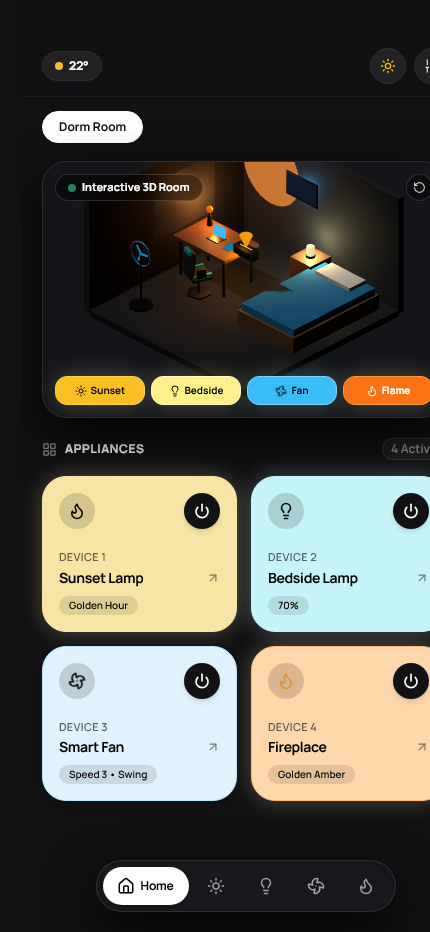
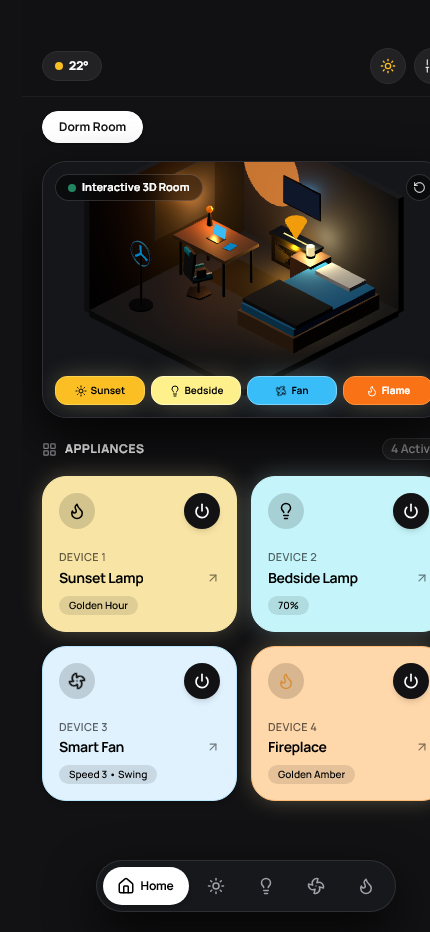
feat: grand architectural fireplace under TV and rock-solid jitter-free blanket in 3D room

diff --git a/src/components/ThreeRoomScene.tsx b/src/components/ThreeRoomScene.tsx
@@ -310,13 +310,17 @@ export const ThreeRoomScene: React.FC<ThreeRoomSceneProps> = ({
     mattress.position.set(0.9, 0.32, -0.6);
     masterGroup.add(mattress);
 
-    // Matte Black Quilt / Blanket draped on the foot of the bed (Requested by user)
+    // Matte Black Quilt / Blanket draped on foot of the bed (Rock solid - elevated to eliminate Z-fighting!)
     const blackBlanketMat = new THREE.MeshStandardMaterial({
       color: 0x121316,
       roughness: 0.95,
+      polygonOffset: true,
+      polygonOffsetFactor: -2,
+      polygonOffsetUnits: -2,
     });
-    const blackBlanket = new THREE.Mesh(new THREE.BoxGeometry(1.24, 0.06, 0.82), blackBlanketMat);
-    blackBlanket.position.set(0.9, 0.38, -0.12);
+    const blackBlanket = new THREE.Mesh(new THREE.BoxGeometry(1.25, 0.07, 0.85), blackBlanketMat);
+    // Mattress top is y = 0.41, placing blanket center at y = 0.445 gives clean 0.07 thickness above mattress
+    blackBlanket.position.set(0.9, 0.445, -0.12);
     masterGroup.add(blackBlanket);
 
     const pillow = new THREE.Mesh(new THREE.BoxGeometry(0.8, 0.08, 0.38), pillowMat);
@@ -420,94 +424,120 @@ export const ThreeRoomScene: React.FC<ThreeRoomSceneProps> = ({
     }
 
     // -------------------------------------------------------------
-    // APPLIANCE 4: Flame Humidifier (Fireplace box on table)
+    // APPLIANCE 4: Grand Architectural Fireplace Hearth (Big size sitting on floor under the TV!)
     // -------------------------------------------------------------
     const fireplaceGroup = new THREE.Group();
-    fireplaceGroup.position.set(-0.35, 0.81, -0.4);
+    // Positioned directly against the back wall (z = -1.58), sitting on the floor under the TV (x = -0.35)
+    fireplaceGroup.position.set(-0.35, 0.26, -1.58);
 
-    // 1. Obsidian Outer Chassis (Matches photo)
-    const fireplaceChassis = new THREE.Mesh(
-      new THREE.BoxGeometry(0.44, 0.17, 0.16),
-      new THREE.MeshStandardMaterial({ color: 0x111215, roughness: 0.35, metalness: 0.2 })
+    // 1. Heavy Obsidian / Granite Hearth Mantel Base (Grand Presence matching user photo)
+    const fpMantelBase = new THREE.Mesh(
+      new THREE.BoxGeometry(0.92, 0.52, 0.26),
+      new THREE.MeshStandardMaterial({ color: 0x111215, roughness: 0.4, metalness: 0.15 })
     );
-    fireplaceGroup.add(fireplaceChassis);
+    fireplaceGroup.add(fpMantelBase);
 
-    // 2. Front Panoramic Glass Window
+    // Top Mantel Shelf / Ledge
+    const fpMantelLedge = new THREE.Mesh(
+      new THREE.BoxGeometry(0.98, 0.04, 0.3),
+      new THREE.MeshStandardMaterial({ color: 0x181a1f, roughness: 0.3, metalness: 0.2 })
+    );
+    fpMantelLedge.position.set(0, 0.27, 0.01);
+    fireplaceGroup.add(fpMantelLedge);
+
+    // 2. Deep Panoramic Firebox Chamber (Recessed dark cavity)
+    const fpCavity = new THREE.Mesh(
+      new THREE.BoxGeometry(0.74, 0.34, 0.18),
+      new THREE.MeshStandardMaterial({ color: 0x050608, roughness: 0.9 })
+    );
+    fpCavity.position.set(0, -0.02, 0.05);
+    fireplaceGroup.add(fpCavity);
+
+    // 3. Front Panoramic Tinted Glass Pane
     const fpGlassMat = new THREE.MeshStandardMaterial({
-      color: 0x050608,
-      roughness: 0.1,
-      metalness: 0.9,
+      color: 0x08090c,
+      roughness: 0.05,
+      metalness: 0.95,
       transparent: true,
-      opacity: 0.85,
+      opacity: 0.82,
     });
-    const fpGlass = new THREE.Mesh(new THREE.BoxGeometry(0.38, 0.11, 0.01), fpGlassMat);
-    fpGlass.position.set(0, -0.01, 0.082);
+    const fpGlass = new THREE.Mesh(new THREE.BoxGeometry(0.72, 0.32, 0.01), fpGlassMat);
+    fpGlass.position.set(0, -0.02, 0.135);
     fireplaceGroup.add(fpGlass);
 
-    // 3. Glowing Ember Bed inside the chamber
+    // 4. Broad Glowing Molten Coal & Ember Bed across the full hearth
     const emberMat = new THREE.MeshBasicMaterial({
-      color: isFireplaceOn ? 0xef4444 : 0x1a1a1e,
+      color: isFireplaceOn ? 0xef4444 : 0x16171a,
     });
-    const emberBed = new THREE.Mesh(new THREE.BoxGeometry(0.34, 0.015, 0.08), emberMat);
-    emberBed.position.set(0, -0.045, 0.04);
+    const emberBed = new THREE.Mesh(new THREE.BoxGeometry(0.68, 0.02, 0.14), emberMat);
+    emberBed.position.set(0, -0.16, 0.06);
     fireplaceGroup.add(emberBed);
 
-    // 4. Miniature Charred Wood Logs inside the chamber
-    const logMat = new THREE.MeshStandardMaterial({ color: 0x1e2025, roughness: 0.9 });
-    const fpLog1 = new THREE.Mesh(new THREE.CylinderGeometry(0.012, 0.012, 0.22, 6), logMat);
+    // 5. Stacked 3D Charred Oak Firewood Logs inside the fireplace
+    const logMat = new THREE.MeshStandardMaterial({ color: 0x22242b, roughness: 0.9 });
+
+    // Center horizontal charred log
+    const fpLog1 = new THREE.Mesh(new THREE.CylinderGeometry(0.024, 0.024, 0.44, 8), logMat);
     fpLog1.rotation.z = Math.PI / 2;
-    fpLog1.position.set(0, -0.03, 0.04);
+    fpLog1.position.set(0, -0.13, 0.06);
     fireplaceGroup.add(fpLog1);
 
-    const fpLog2 = new THREE.Mesh(new THREE.CylinderGeometry(0.01, 0.01, 0.14, 6), logMat);
-    fpLog2.rotation.z = Math.PI / 3;
-    fpLog2.position.set(0.04, -0.02, 0.05);
+    // Left crossed branch
+    const fpLog2 = new THREE.Mesh(new THREE.CylinderGeometry(0.018, 0.018, 0.28, 8), logMat);
+    fpLog2.rotation.z = Math.PI / 3.2;
+    fpLog2.position.set(-0.12, -0.1, 0.07);
     fireplaceGroup.add(fpLog2);
 
-    // 5. Top Emitter Slot (Glowing horizontal slit)
+    // Right crossed branch
+    const fpLog3 = new THREE.Mesh(new THREE.CylinderGeometry(0.02, 0.02, 0.28, 8), logMat);
+    fpLog3.rotation.z = -Math.PI / 3.5;
+    fpLog3.position.set(0.14, -0.09, 0.07);
+    fireplaceGroup.add(fpLog3);
+
+    // 6. Top Exhaust Slot on the Mantel Ledge (Glowing slit)
     const slotMat = new THREE.MeshBasicMaterial({
-      color: isFireplaceOn ? 0xfef08a : 0x08090a,
+      color: isFireplaceOn ? 0xfef08a : 0x090a0d,
     });
-    const fpSlot = new THREE.Mesh(new THREE.BoxGeometry(0.28, 0.005, 0.02), slotMat);
-    fpSlot.position.set(0, 0.086, 0);
+    const fpSlot = new THREE.Mesh(new THREE.BoxGeometry(0.56, 0.008, 0.03), slotMat);
+    fpSlot.position.set(0, 0.295, 0.02);
     fireplaceGroup.add(fpSlot);
 
-    // 6. Rising animated flame mist tongue
+    // 7. Rising Animated Volumetric Leaping Flame Mist
     const flameMat = new THREE.MeshBasicMaterial({
       color: new THREE.Color(fireplaceColor),
       transparent: true,
-      opacity: isFireplaceOn ? 0.85 : 0.0,
+      opacity: isFireplaceOn ? 0.88 : 0.0,
       side: THREE.DoubleSide,
     });
-    const flameMesh = new THREE.Mesh(new THREE.ConeGeometry(0.11, 0.24, 12), flameMat);
-    flameMesh.position.set(0, 0.19, 0);
+    const flameMesh = new THREE.Mesh(new THREE.ConeGeometry(0.18, 0.36, 16), flameMat);
+    flameMesh.position.set(0, 0.46, 0.02);
     flameMesh.rotation.x = Math.PI;
     fireplaceGroup.add(flameMesh);
     fireplaceFlameRef.current = flameMesh;
 
-    // Chamber ambient light cast
-    const fpPointLight = new THREE.PointLight(new THREE.Color(fireplaceColor), isFireplaceOn ? 1.8 : 0, 1.5);
-    fpPointLight.position.set(0, 0.1, 0.1);
+    // Rich ambient firelight cast onto the floor and room
+    const fpPointLight = new THREE.PointLight(new THREE.Color(fireplaceColor), isFireplaceOn ? 3.0 : 0, 3.2);
+    fpPointLight.position.set(0, 0.15, 0.25);
     fireplaceGroup.add(fpPointLight);
 
     masterGroup.add(fireplaceGroup);
 
     // -------------------------------------------------------------
-    // APPLIANCE 5: Wall-Mounted Smart TV above the Fireplace (Requested by user)
+    // APPLIANCE 5: Wall-Mounted Smart TV Directly Above the Fireplace (1:1 with photo!)
     // -------------------------------------------------------------
     const tvGroup = new THREE.Group();
-    // Mounted directly on back wall (z = -1.74) centered above fireplace (x = -0.35, y = 1.45)
-    tvGroup.position.set(-0.35, 1.45, -1.74);
+    // Mounted directly on the back wall (z = -1.74) centered right above the fireplace (x = -0.35, y = 1.28)
+    tvGroup.position.set(-0.35, 1.28, -1.74);
 
     // Wall Bracket
-    const tvBracket = new THREE.Mesh(new THREE.BoxGeometry(0.18, 0.14, 0.03), metalMat);
+    const tvBracket = new THREE.Mesh(new THREE.BoxGeometry(0.24, 0.16, 0.03), metalMat);
     tvBracket.position.z = 0.015;
     tvGroup.add(tvBracket);
 
-    // 50" Slim Obsidian Frame
+    // 55" Large OLED Obsidian Frame
     const tvFrame = new THREE.Mesh(
-      new THREE.BoxGeometry(0.72, 0.44, 0.02),
-      new THREE.MeshStandardMaterial({ color: 0x0a0b0d, roughness: 0.3, metalness: 0.8 })
+      new THREE.BoxGeometry(0.86, 0.52, 0.02),
+      new THREE.MeshStandardMaterial({ color: 0x0a0b0d, roughness: 0.25, metalness: 0.85 })
     );
     tvFrame.position.z = 0.035;
     tvGroup.add(tvFrame);
@@ -516,12 +546,12 @@ export const ThreeRoomScene: React.FC<ThreeRoomSceneProps> = ({
     const tvScreenMat = new THREE.MeshBasicMaterial({
       color: isDarkMode ? 0x0f172a : 0x1e293b,
     });
-    const tvScreen = new THREE.Mesh(new THREE.PlaneGeometry(0.68, 0.4), tvScreenMat);
+    const tvScreen = new THREE.Mesh(new THREE.PlaneGeometry(0.82, 0.48), tvScreenMat);
     tvScreen.position.z = 0.046;
     tvGroup.add(tvScreen);
 
-    // Ambient TV Backlight casting glow onto the wall
-    const tvBacklight = new THREE.PointLight(0x38bdf8, isDarkMode ? 0.9 : 0.4, 1.4);
+    // Ambient TV Backlight casting cinematic glow onto the wall
+    const tvBacklight = new THREE.PointLight(0x38bdf8, isDarkMode ? 1.0 : 0.4, 1.6);
     tvBacklight.position.set(0, 0, 0.01);
     tvGroup.add(tvBacklight);
 
